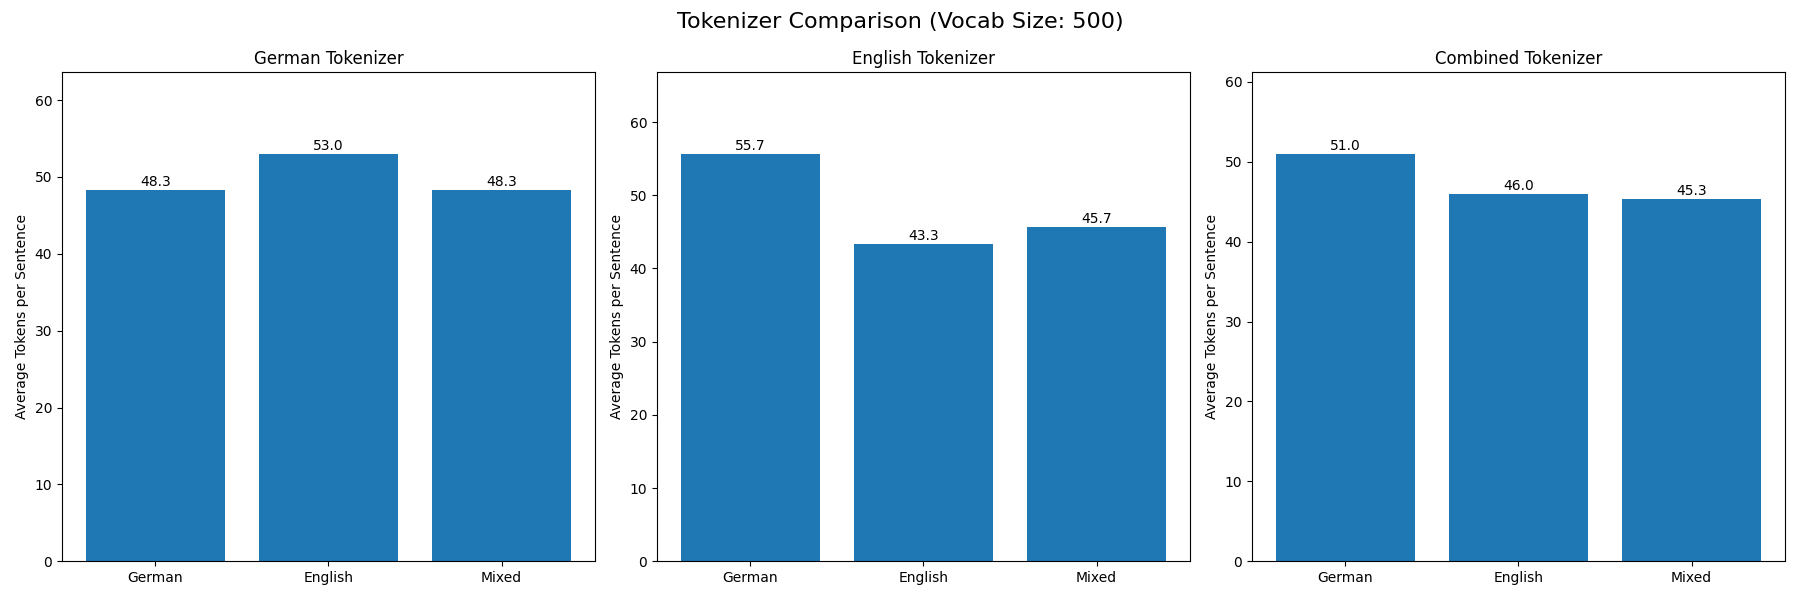
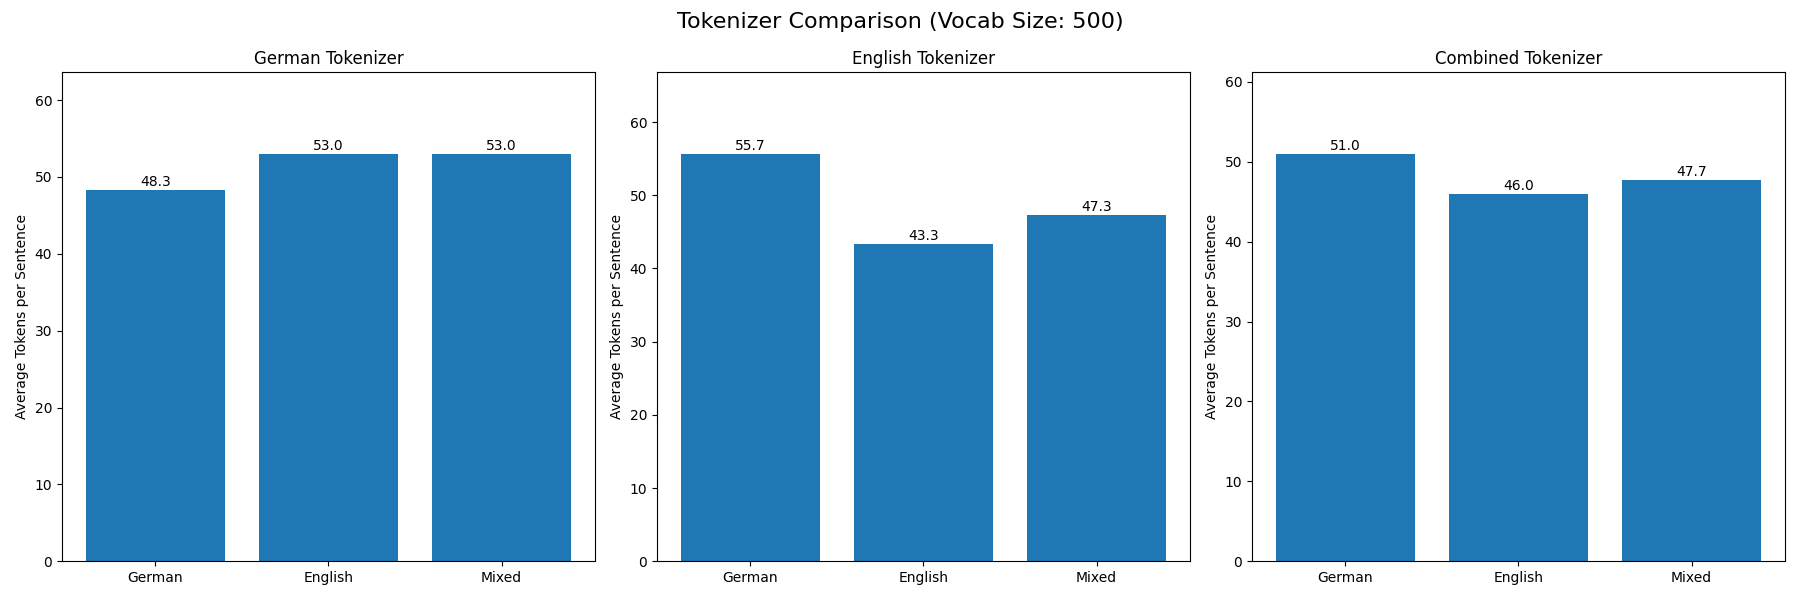
Clarify formulation

Changed region(s): [[0.2178, 0.24, 0.3422, 0.33], [0.56, 0.33, 0.6533, 0.39], [0.9022, 0.3, 0.9956, 0.33]]

diff --git a/Bericht.md b/Bericht.md
@@ -26,13 +26,13 @@ Im Rahmen der Analyse wurden alle Versionen der Tokenizer mit jeweils drei deuts
 
 **Ergebnisse**
 
-Auffällig ist, dass die durchschnittliche Anzahl der Tokens pro Satz mit zunehmender Vokabulargröße abnimmt. Außerdem erzielen die auf Deutsch bzw. Englisch trainierten Tokenizer die besten Ergebnisse für Sätze in der jeweiligen Sprache. Die Anzahl der Token für gemischte Sätze liegt für beide Tokenizer zwischen den Ergebnissen für deutsche und englische Sätze. Darüber hinaus kann der kombinierte Tokenizer bei einer Vokabulargröße von 500 gemischten Sätzen mit durchschnittlich 45,3 Tokens pro Satz besser kodieren, während bei höheren Vokabulargrößen die englischen Sätze bessere Ergebnisse erzielen. Insgesamt können englische Sätze über alle Vokabulargrößen hinweg mit durchschnittlich am wenigsten Tokens kodiert werden, während deutsche und gemischte Sätze vergleichbar viele Tokens benötigen.
+Auffällig ist, dass die durchschnittliche Anzahl der Tokens pro Satz mit zunehmender Vokabulargröße abnimmt. Außerdem erzielen die auf Deutsch bzw. Englisch trainierten Tokenizer die besten Ergebnisse für Sätze in der jeweiligen Sprache. Die Anzahl der Token für gemischte Sätze liegt für beide Tokenizer zwischen den Ergebnissen für deutsche und englische Sätze. Darüber hinaus kann der kombinierte Tokenizer englischen Sätze besser kodieren als gemischte Sätze. Insgesamt können englische Sätze über alle Vokabulargrößen hinweg mit durchschnittlich am wenigsten Tokens kodiert werden, während deutsche und gemischte Sätze vergleichbar viele Tokens benötigen.
 
 ### c)
 Die Tokenanzahl pro Satz hängt direkt von der Vokabulargröße ab. Kleine Vokabulare (ca. 500 Einheiten) erzeugen mehr kurze Tokens, große Vokabulare (ca. 1500) weniger und längere Tokens, die ganze Wörter oder bedeutungsvolle Wortteile umfassen können. Dabei gilt: Kleine Vokabulare ermöglichen schnelleres Training bei ineffizientem Encoding, große Vokabulare verlangsamen das Training, bieten aber effizienteres Encoding. Die größten Effizienzgewinne liegen zwischen 500 und 1000 Vokabeleinheiten.
 
 Die Effizienzunterschiede zwischen den Tokenizern spiegeln die sprachspezifischen Eigenschaften wider. Der deutsche Tokenizer hat beispielsweise gelernt, deutsche Komposita und morphologische Strukturen effizient zu kodieren, während der englische Tokenizer die häufigen englischen Wortbausteine besser repräsentiert. Beide zeigen deutliche Schwächen bei fremdsprachigen Texten.
-Gemischte Sätze liegen in ihrer Tokenanzahl zwischen den Werten der spezialisierten Modelle. Interessanterweise erweist sich bei sehr kleinen Vokabularen (etwa 500 Sub-Wörter) ein kombinierter, multilingualer Tokenizer als vorteilhaft für gemischte Sätze, da er beide Sprachmuster abdeckt, wohingegen ab mittleren bis großen Vokabularen englische Sätze weniger Token mit dem kombinierten Tokenizer erfordern und somit am effizientesten kodiert werden.
+Gemischte Sätze liegen in ihrer Tokenanzahl zwischen den Werten der spezialisierten Modelle. Interessanterweise erweist sich der kombinierter, multilingualer Tokenizer sowohl für gemischte Sätze als vorteilhaft, da er beide Sprachmuster abdeckt, als auch für englische Sätze, da diese mit nochmal weniger Token als die gemischten Sätze abgedeckt werden.
 
 Die Ergebnisse zeigen auch, dass eine größere Vokabulargröße zu einer kompakteren Darstellung von Informationen führt, da mehr bedeutungsvolle Subword-Einheiten in einem einzelnen Token erfasst werden können.
 
